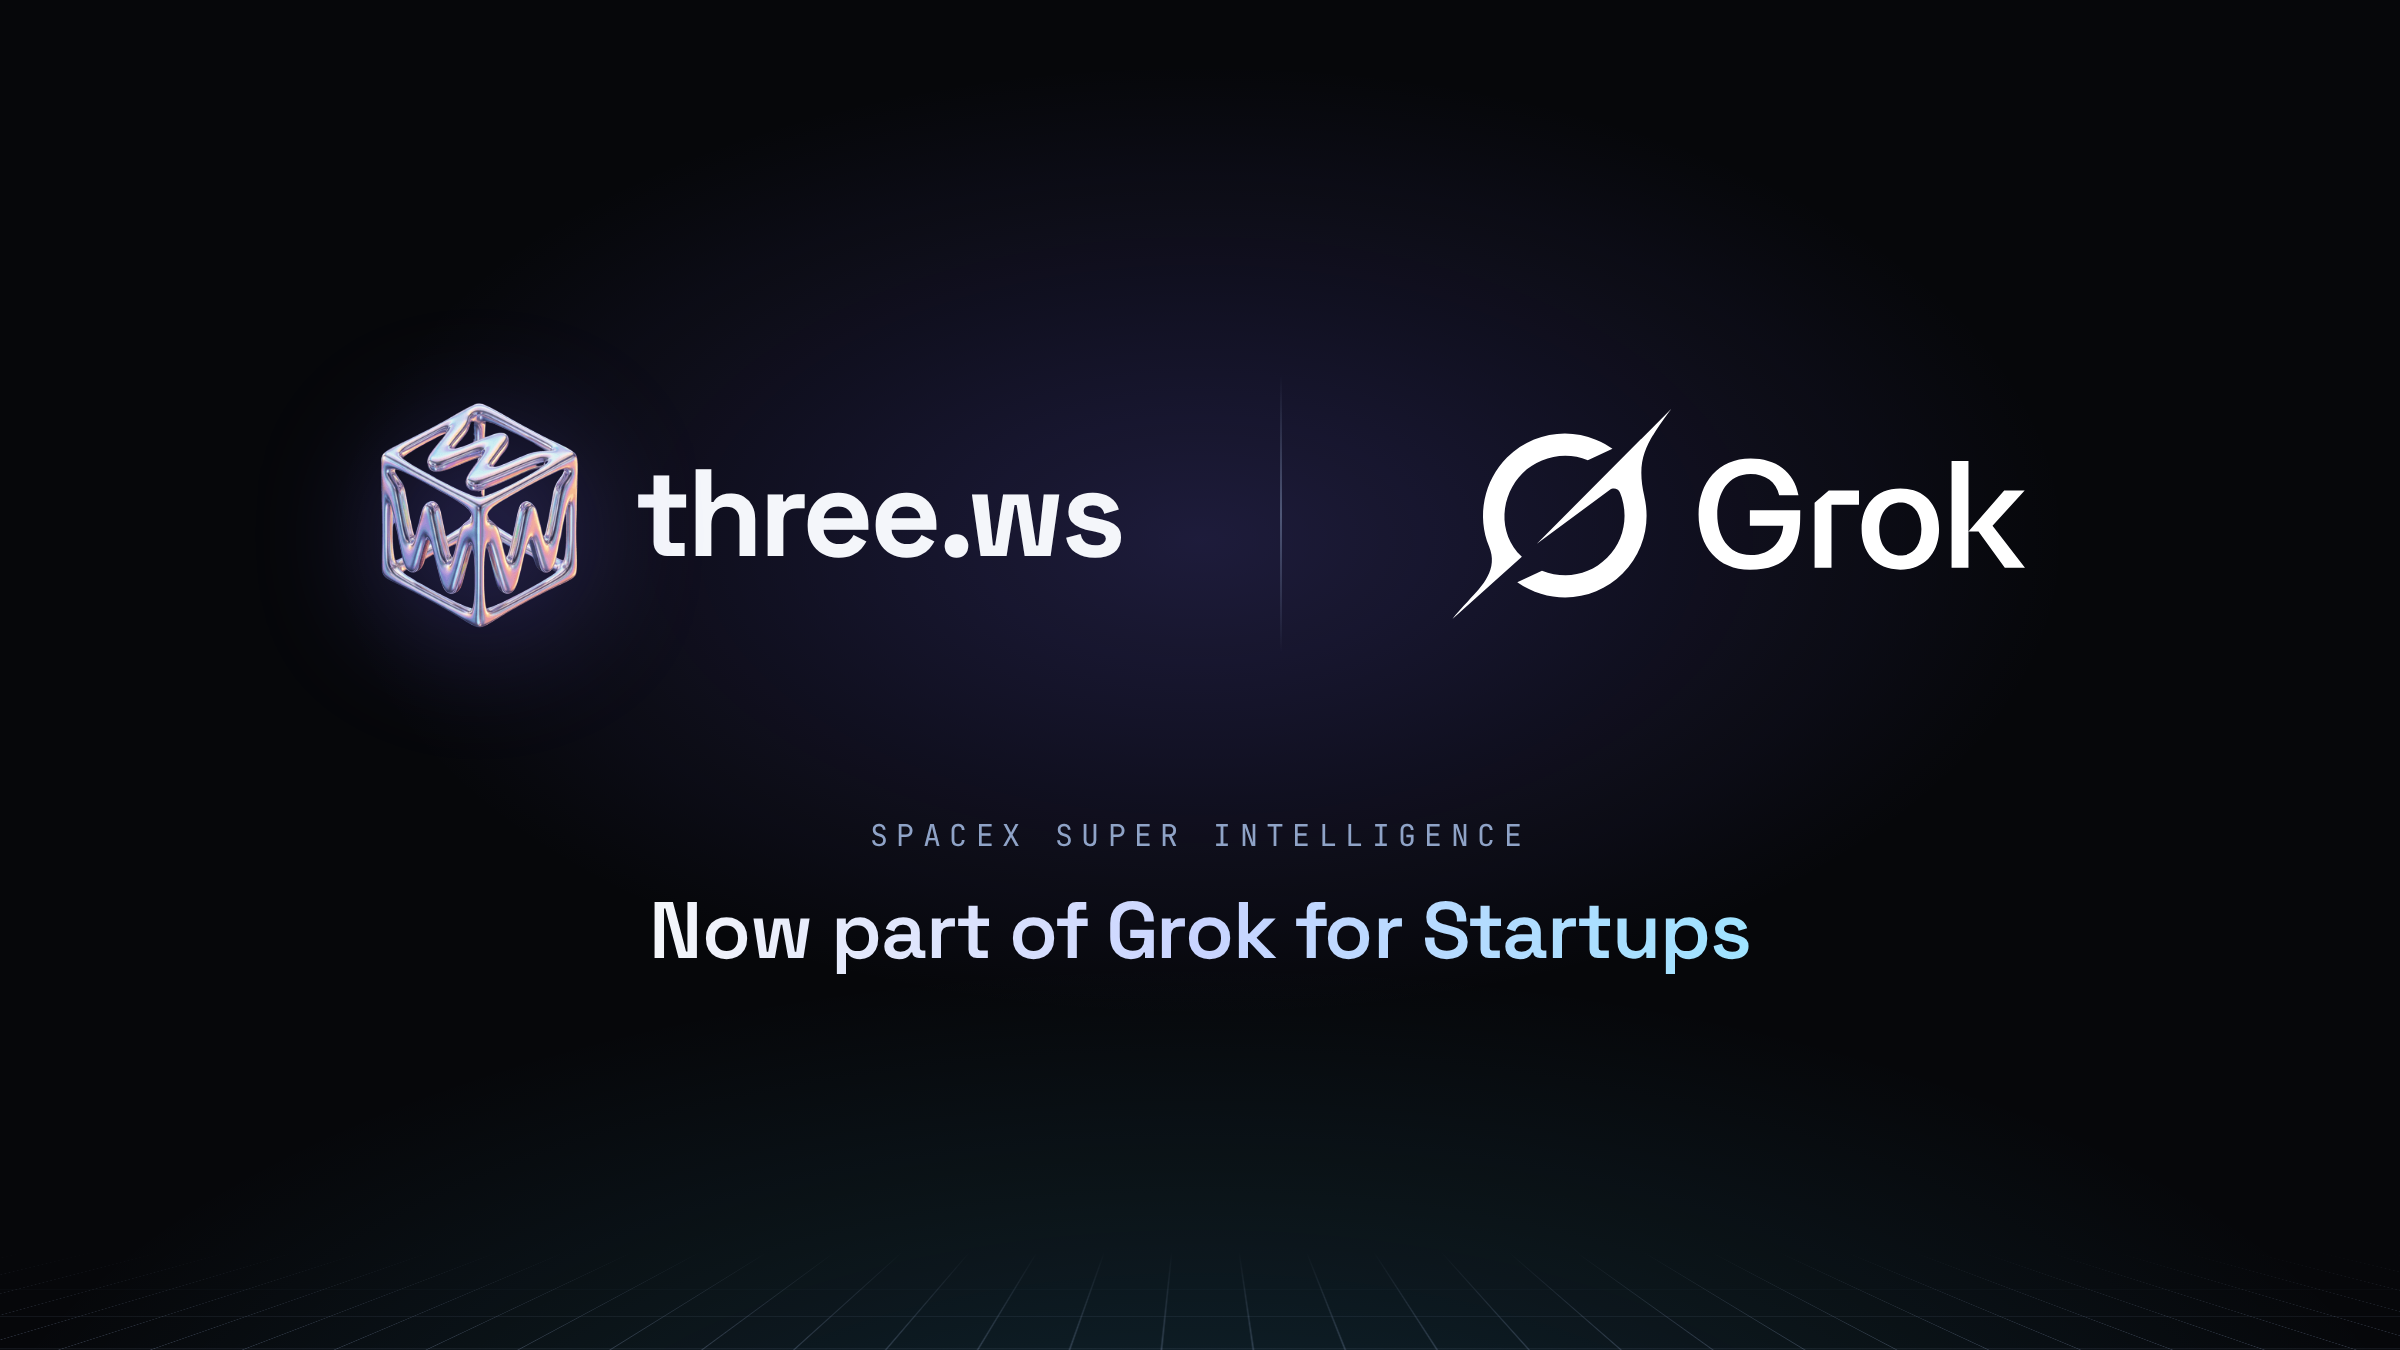
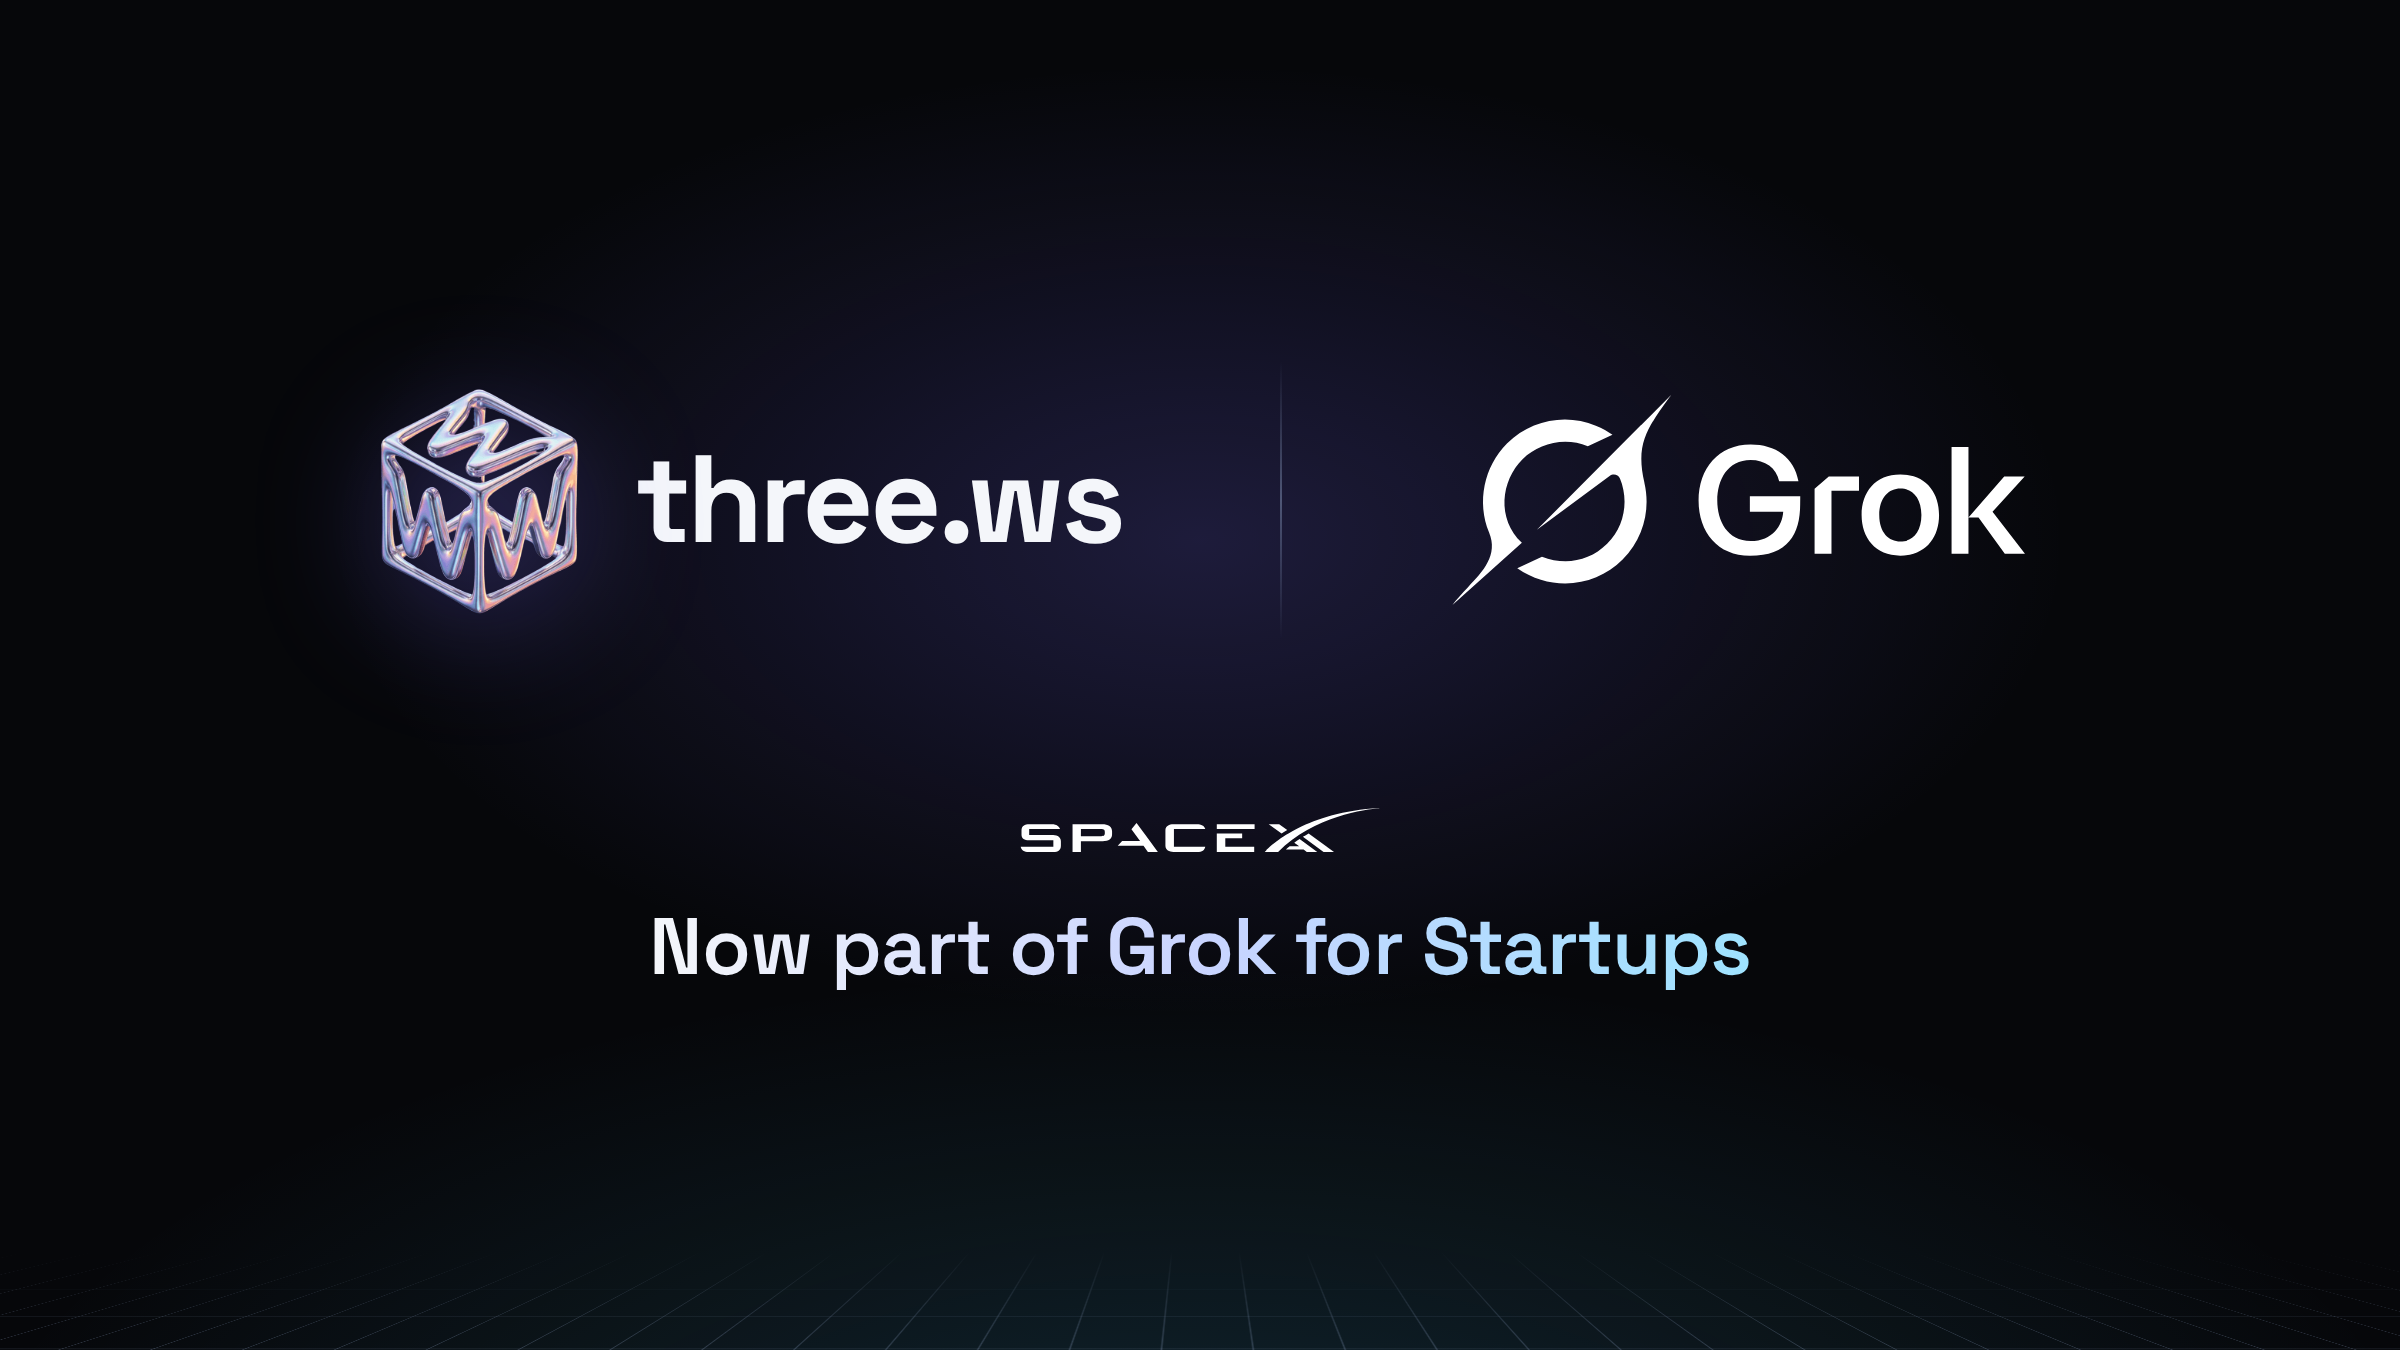
feat(x-media): use the official SpaceXAI wordmark on the company variant of the Grok for Startups card

diff --git a/docs/partners/xai-grok-startups-plan.md b/docs/partners/xai-grok-startups-plan.md
@@ -133,8 +133,10 @@ in [prompts/finish/_context/grok-OWNER-ACTIONS.md](../../prompts/finish/_context
   describe compatibility or a real subject. No xAI, SpaceX or X logo is used unless a published
   brand kit allows it. The rocket cutaway describes the engine cycle generically and cites public
   sources; it is not presented as an official SpaceX asset. The Grok logo the owner approved for
-  announcements is `public/marks/grok-full-logomark-light.svg`, the unaltered file from the kit
-  linked at [x.ai/legal/brand-guidelines](https://x.ai/legal/brand-guidelines). Those guidelines
+  announcements is `public/marks/grok-full-logomark-light.svg`, and the SpaceXAI wordmark is
+  `public/marks/spacexai-wordmark-white-transparent.svg`. Both are unaltered files from the
+  `SpaceXAI_Grok_Assets` kit linked at
+  [x.ai/legal/brand-guidelines](https://x.ai/legal/brand-guidelines). Those guidelines
   require it exactly as provided, with nothing beside it that reads as a combined mark; the
   announcement card (`node scripts/grok-startups-announce-card.mjs`) follows that.
 - **X automation rules.** Reply only when addressed, carry the automated-account label, never
